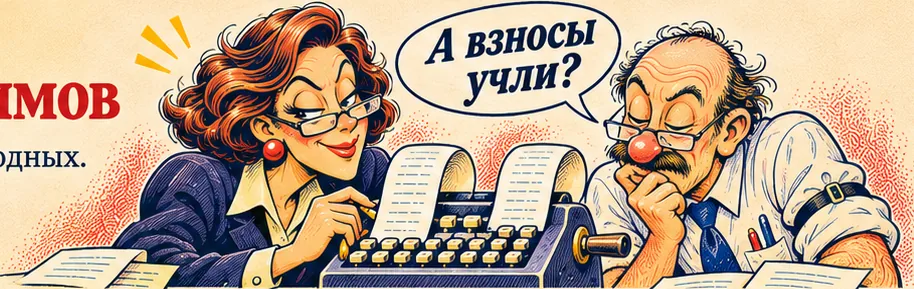
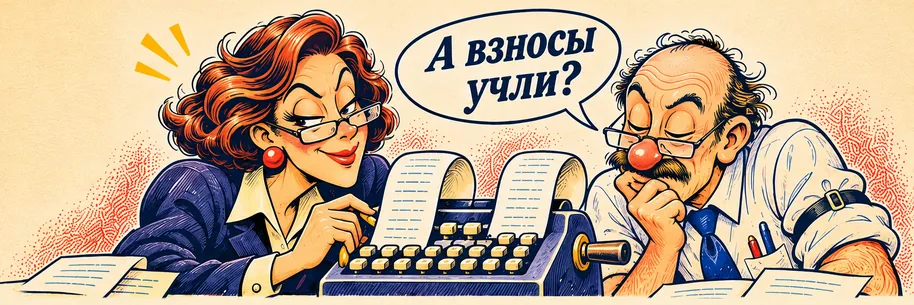
Remove stray lettering from calculator illustration

diff --git a/index.html b/index.html
@@ -113,7 +113,7 @@ document.addEventListener("DOMContentLoaded",function(){var t=document.querySele
           <span class="tax-tool-banner__price">Google Sheets · Excel-файл по запросу</span>
         </div>
       </div>
-      <img src="assets/comic/calculator.webp" width="914" height="289" alt="Бухгалтер за калькулятором спрашивает: «А взносы учли?»" loading="lazy" decoding="async"></div></div></section>
+      <img src="assets/comic/calculator.webp?v=2" width="914" height="305" alt="Бухгалтер за калькулятором спрашивает: «А взносы учли?»" loading="lazy" decoding="async"></div></div></section>
     <section class="case-band" id="cases"><div class="wrap case-grid">
       <div class="case-intro"><h2>Практика в проектах</h2><p>Компании описаны по отрасли и модели бизнеса. Конкретные выводы и исходные расчёты можно раскрыть на обсуждении в пределах NDA.</p></div>
       <div class="case-list">
